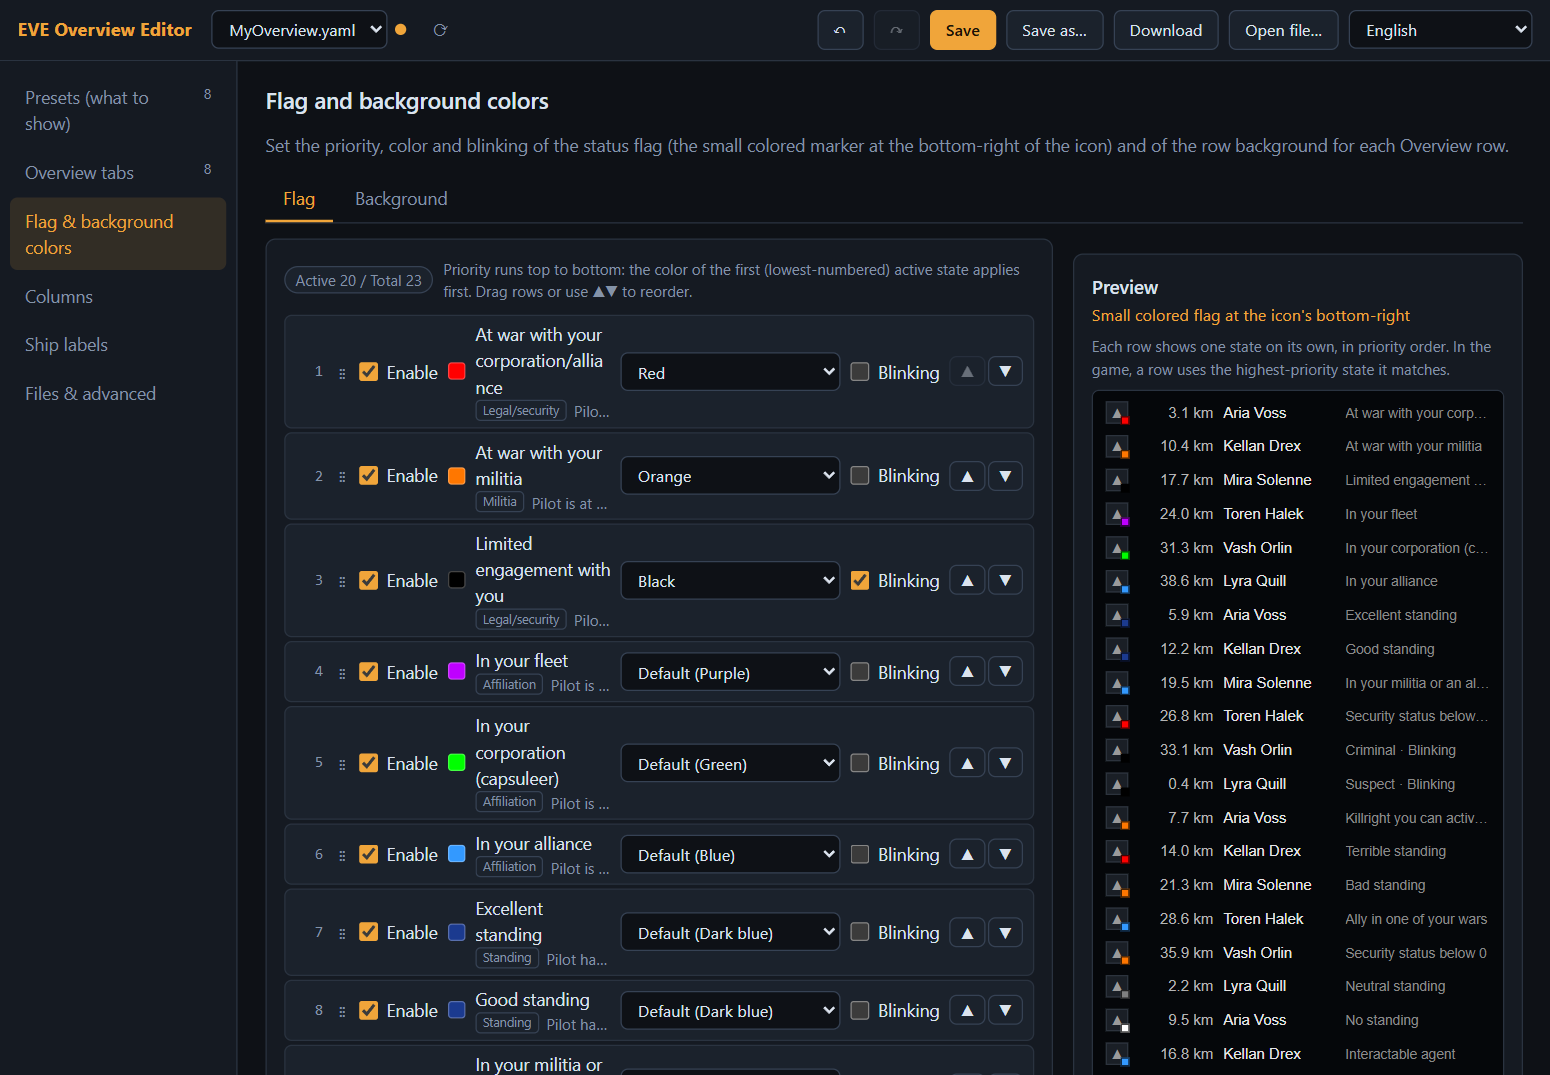
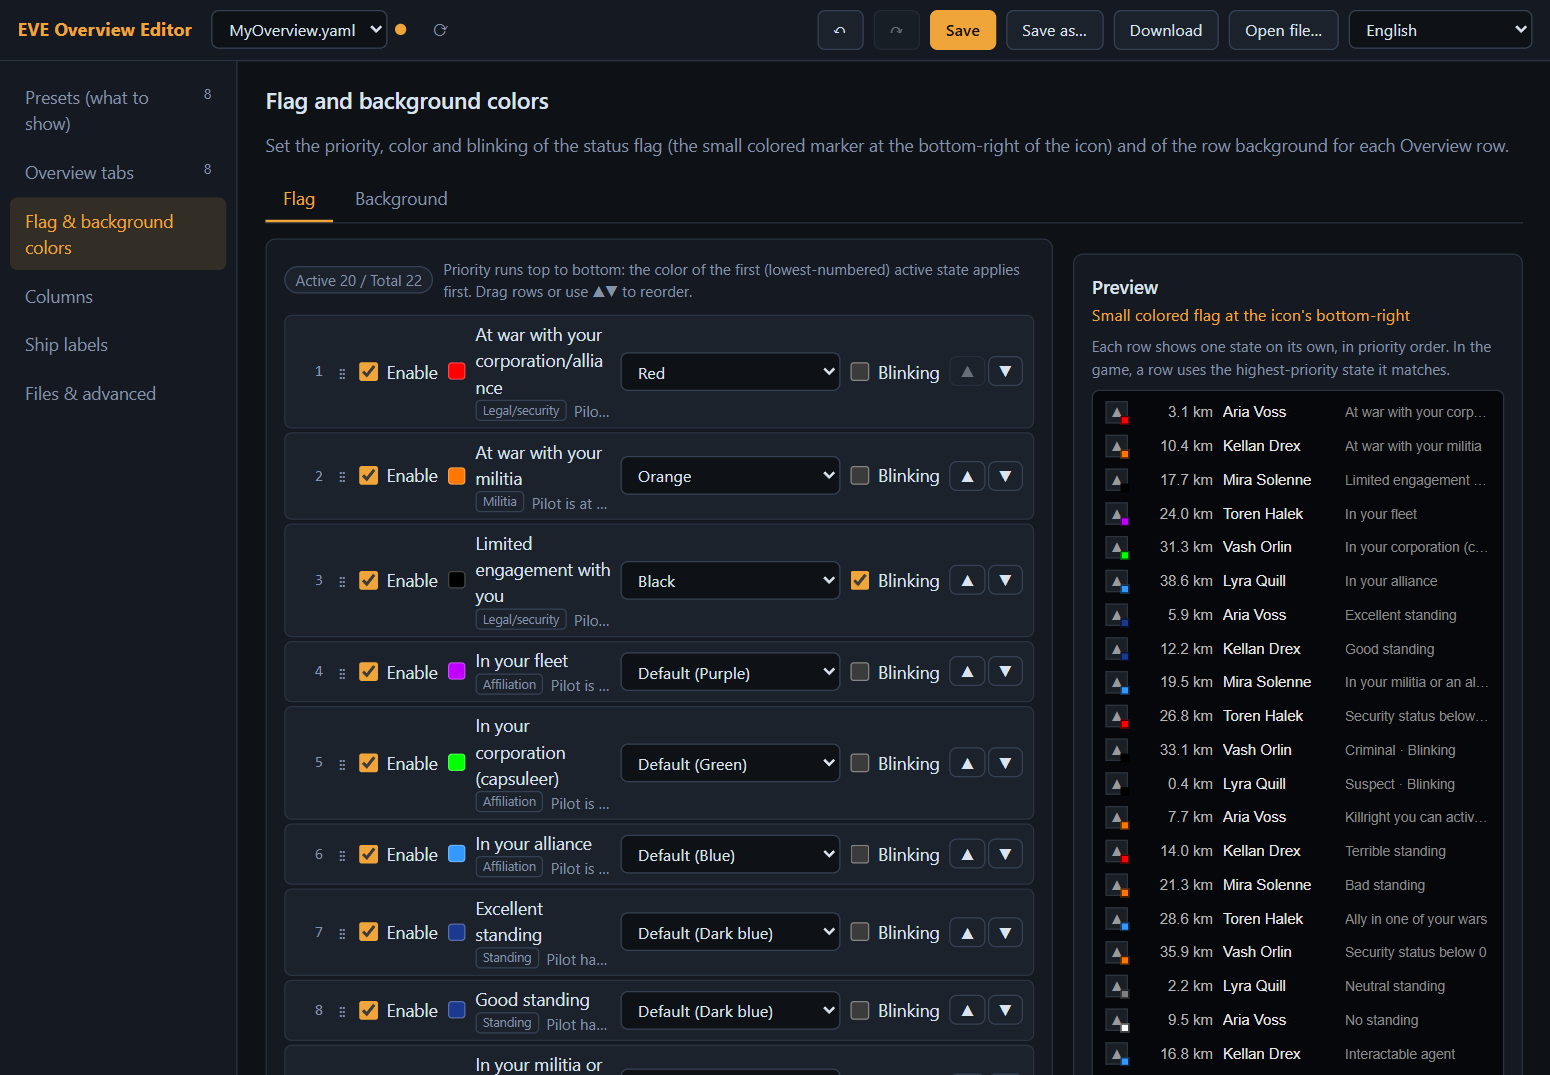
Hide the bounty state (ID 20) unless a file or preset uses it
State 20 was listed as "Reserved (20)". The client calls it "Pilot has bounty
on them" (flagIsWanted), and its own settings panels skip it only when the
server config hide_player_bounties is on. The editor now treats it as a hidden
state:

- not offered in the state filters or the flag/background lists by default
- still listed (with the game's name in all five languages) when a preset
  filters it, or when it is active in the flag/background settings
- the order arrays are left as they are, so saved files do not change; moves
  from the visible list are mapped to array positions (also with duplicate IDs)
- an active hidden state that is missing from the order array is still listed
- README notes (EN/KO) and the appearance screenshots updated

Changed region(s): [[0.7432, 0.3684, 0.8361, 0.9823], [0.8671, 0.3684, 0.96, 0.9823]]

diff --git a/public/js/panels/appearance.js b/public/js/panels/appearance.js
@@ -1,7 +1,7 @@
 // 깃발 · 배경 색상 패널: 상태별 우선순위 / 활성 / 색 / 깜빡임.
 import { store } from '../store.js';
 import { h, makeSortable, moveItem, gripHandle } from '../ui.js';
-import { STATES, APPEARANCE_STATE_IDS, stateName, stateNameEn, kindName, COLOR_NAMES, colorLabel, colorCss } from '../data.js';
+import { STATES, APPEARANCE_STATE_IDS, HIDDEN_STATE_IDS, isHiddenState, stateName, stateNameEn, kindName, COLOR_NAMES, colorLabel, colorCss } from '../data.js';
 import { t } from '../i18n.js';
 
 const MODE_IDS = ['flag', 'background'];
@@ -16,7 +16,9 @@ const statesKey = (p) => `${p}States`;
 /** 화면에 보일 전체 상태 ID (순서 배열 + 아직 순서에 없는 알려진 상태) */
 function rowIds(p) {
   const order = store.model[orderKey(p)];
-  return [...order, ...APPEARANCE_STATE_IDS.filter((id) => !order.includes(id))];
+  // 게임이 숨기는 상태라도 이미 켜져 있으면, 순서 배열에 없더라도 목록에 올린다
+  const extra = [...APPEARANCE_STATE_IDS, ...HIDDEN_STATE_IDS.filter((id) => isActive(p, id))];
+  return [...order, ...extra.filter((id) => !order.includes(id))];
 }
 /** 순서 배열에 없던 상태를 화면에 보이는 순서 그대로 편입 */
 function normalizeOrder(p) {
@@ -25,6 +27,21 @@ function normalizeOrder(p) {
   if (full.length !== order.length) order.splice(0, order.length, ...full);
 }
 const isActive = (p, id) => store.model[statesKey(p)].includes(id);
+// 게임이 숨기는 상태(현상금 등)는 이미 켜져 있을 때만 목록에 보인다. 이 화면을 그릴 때 켜져 있던 것은
+// 껐다가 다시 켤 수 있게 계속 보여 준다. 순서 배열에는 그대로 남아 있으므로 파일 내용은 바뀌지 않는다.
+let pinnedHidden = new Set();
+const pinHidden = (p) => { pinnedHidden = new Set(HIDDEN_STATE_IDS.filter((id) => isActive(p, id))); };
+/** 목록과 미리보기에 실제로 보이는 상태 ID (순서 배열 중 숨김 상태를 뺀 것) */
+const shownIds = (p) => rowIds(p).filter((id) => !isHiddenState(id) || pinnedHidden.has(id));
+/** 화면 위치(보이는 목록 기준)를 순서 배열의 위치로 옮겨서 이동한다. 사이에 숨겨진 항목이 있어도 상대 순서가 유지된다. */
+function moveShown(p, from, to) {
+  normalizeOrder(p);
+  const order = store.model[orderKey(p)];
+  // 보이는 항목들의 순서 배열 내 위치 (같은 ID 가 두 번 들어 있는 파일도 위치로 구분한다)
+  const pos = [];
+  order.forEach((id, k) => { if (!isHiddenState(id) || pinnedHidden.has(id)) pos.push(k); });
+  if (pos[from] !== undefined && pos[to] !== undefined) moveItem(order, pos[from], pos[to]);
+}
 const colorName = (p, id) => store.model.stateColors[`${p}_${id}`] ?? STATES[id]?.color ?? null;
 const isBlink = (p, id) => store.model.stateBlinks[`${p}_${id}`] === true;
 const cssOf = (name) => (name ? colorCss(name) : null);
@@ -55,12 +72,13 @@ export default async function render(root) {
 
   function drawBody() {
     const p = mode;
+    pinHidden(p);
     const list = h('div', { class: 'ap-list', role: 'list', 'aria-label': t('appearance.listAria', { mode: modeLabel(p) }) });
     const preview = h('div', { class: 'preview ap-preview', 'aria-label': t('appearance.previewAria', { mode: modeLabel(p) }) });
     const counter = h('span', { class: 'chip' });
 
     const refreshPreview = () => {
-      const all = rowIds(p);
+      const all = shownIds(p);
       // 좌측 목록의 모든 상태를 우선순위 순서 그대로 한 줄씩 보여준다 (비활성은 흐리게)
       const rows = all.map((id, i) => previewRow(p, id, `${(i * 7 + 3) % 40}.${(i * 3 + 1) % 10} km`, SAMPLE_NAMES[i % SAMPLE_NAMES.length]));
       rows.push(previewRow(p, null, '84.1 km', t('appearance.sampleNone')));
@@ -80,7 +98,7 @@ export default async function render(root) {
 
     const ctx = { refreshPreview, highlight, drawList: null };
     const drawList = (focus) => {
-      const ids = rowIds(p);
+      const ids = shownIds(p);
       list.replaceChildren(...ids.map((id, i) => stateRow(p, id, i, ids.length, ctx)));
       if (focus) {
         const row = list.querySelector(`[data-id="${focus.id}"]`);
@@ -92,8 +110,7 @@ export default async function render(root) {
     ctx.drawList = drawList;
 
     makeSortable(list, (from, to) => {
-      normalizeOrder(p);
-      moveItem(store.model[orderKey(p)], from, to);
+      moveShown(p, from, to);
       store.commit(`${p}-order`);
       drawList();
     });
@@ -176,8 +193,7 @@ function stateRow(p, id, i, total, ctx) {
   });
 
   const move = (dir) => {
-    normalizeOrder(p);
-    moveItem(m[orderKey(p)], i, i + dir);
+    moveShown(p, i, i + dir);
     store.commit(`${p}-order`);
     ctx.drawList({ id, act: dir < 0 ? 'up' : 'down' });
   };

diff --git a/public/js/data.js b/public/js/data.js
@@ -4,6 +4,8 @@ import { t, tOrNull, nameOf } from './i18n.js';
 
 // kind: legal(법적/보안) | affiliation(소속) | standing(우호도) | militia(밀리샤) | misc
 // filterOnly: 프리셋 필터(숨김/항상표시)에서만 쓰이고 깃발/배경에는 못 쓰는 상태. en 은 게임의 영어 원문.
+// hidden: 현상금(20)처럼 게임이 서버 설정(hide_player_bounties)에 따라 설정 창에서 숨기는 상태. 목록에는 올리지 않고,
+//         파일이나 프리셋이 이미 쓰고 있을 때만 보인다 (쓰는 것을 놓치지 않도록).
 export const STATES = {
   9:  { en: 'Pilot has a security status below -5', kind: 'legal', color: 'red' },
   10: { en: 'Pilot has a security status below 0', kind: 'legal', color: 'orange' },
@@ -16,7 +18,7 @@ export const STATES = {
   17: { en: 'Pilot has Neutral Standing', kind: 'standing', color: 'grey' },
   18: { en: 'Pilot has Bad Standing', kind: 'standing', color: 'orange' },
   19: { en: 'Pilot has Terrible Standing', kind: 'standing', color: 'red' },
-  20: { en: 'Reserved (20)', kind: 'misc', color: 'grey' },
+  20: { en: 'Pilot has bounty on them', kind: 'legal', color: 'grey', hidden: true },
   21: { en: 'Pilot (agent) is interactable', kind: 'misc', color: 'white' },
   36: { en: 'Wreck is already viewed', kind: 'misc', color: 'grey', filterOnly: true },
   37: { en: 'Wreck is empty', kind: 'misc', color: 'grey', filterOnly: true },
@@ -33,7 +35,9 @@ export const STATES = {
 };
 export const STATE_KIND_IDS = ['legal', 'affiliation', 'standing', 'militia', 'misc'];
 export const ALL_STATE_IDS = Object.keys(STATES).map(Number).sort((a, b) => a - b);
-export const APPEARANCE_STATE_IDS = ALL_STATE_IDS.filter((id) => !STATES[id].filterOnly);
+export const APPEARANCE_STATE_IDS = ALL_STATE_IDS.filter((id) => !STATES[id].filterOnly && !STATES[id].hidden);
+export const HIDDEN_STATE_IDS = ALL_STATE_IDS.filter((id) => STATES[id].hidden);
+export const isHiddenState = (id) => !!STATES[id]?.hidden;
 
 /** 현재 언어의 상태 이름 (모르는 ID 는 "알 수 없는 상태 #id") */
 export const stateName = (id) => (STATES[id] ? t(`data.state.${id}`) : t('data.unknownState', { id }));

diff --git a/public/js/locales/data.js b/public/js/locales/data.js
@@ -15,7 +15,7 @@ defineMessages('data', {
     'state.17': 'Neutral standing',
     'state.18': 'Bad standing',
     'state.19': 'Terrible standing',
-    'state.20': 'Reserved (20)',
+    'state.20': 'Pilot has a bounty on them',
     'state.21': 'Interactable agent',
     'state.36': 'Wreck already viewed',
     'state.37': 'Empty wreck',
@@ -84,7 +84,7 @@ defineMessages('data', {
     'state.17': '우호도 중립',
     'state.18': '우호도 나쁨',
     'state.19': '우호도 매우 나쁨',
-    'state.20': '예약됨 (20)',
+    'state.20': '현상금이 걸린 파일럿',
     'state.21': '상호작용 가능한 에이전트',
     'state.36': '이미 열어본 잔해',
     'state.37': '빈 잔해',
@@ -153,7 +153,7 @@ defineMessages('data', {
     'state.17': 'スタンディング:中立',
     'state.18': 'スタンディング:悪い',
     'state.19': 'スタンディング:非常に悪い',
-    'state.20': '予約済み (20)',
+    'state.20': '懸賞金がかかっているパイロット',
     'state.21': '対話可能なエージェント',
     'state.36': '確認済みの残骸',
     'state.37': '空の残骸',
@@ -222,7 +222,7 @@ defineMessages('data', {
     'state.17': 'Отношения: нейтральные',
     'state.18': 'Отношения: плохие',
     'state.19': 'Отношения: ужасные',
-    'state.20': 'Зарезервировано (20)',
+    'state.20': 'Назначена награда за голову пилота',
     'state.21': 'Агент, доступный для взаимодействия',
     'state.36': 'Обломки уже просмотрены',
     'state.37': 'Пустые обломки',
@@ -291,7 +291,7 @@ defineMessages('data', {
     'state.17': '声望:中立',
     'state.18': '声望:较差',
     'state.19': '声望:极差',
-    'state.20': '保留 (20)',
+    'state.20': '被悬赏的飞行员',
     'state.21': '可交互的代理人',
     'state.36': '已查看的残骸',
     'state.37': '空残骸',

diff --git a/public/js/panels/presets.js b/public/js/panels/presets.js
@@ -531,8 +531,10 @@ function statesTab(p, { rebuild }) {
   }
 
   const wrap = h('div', { class: 'pr-states' });
+  // 게임이 숨기는 상태(현상금 등)는 이 프리셋이 이미 쓰고 있을 때만 나열한다 (이 화면을 그릴 때 기준으로 고정)
+  const inUse = new Set([...p.filteredStates, ...p.alwaysShownStates]);
   for (const kind of STATE_KIND_IDS) {
-    const ids = ALL_STATE_IDS.filter((id) => STATES[id].kind === kind);
+    const ids = ALL_STATE_IDS.filter((id) => STATES[id].kind === kind && (!STATES[id].hidden || inUse.has(id)));
     if (!ids.length) continue;
     wrap.append(h('section', { class: 'pr-kind' }, h('h4', {}, kindName(kind)), ids.map(rowFor)));
   }

diff --git a/README.ko.md b/README.ko.md
@@ -159,6 +159,8 @@ zip(방법 B)에는 PATH 에 `node` 가 없으므로, 압축을 푼 폴더에서
 
 한 상태는 둘 중 한쪽에만 넣을 수 있고, 충돌하면 편집기가 경고합니다. **다른 프리셋에서 복사**와 **모두 기본으로**가 있어 편합니다.
 
+"현상금이 걸린 파일럿" 상태는 게임이 서버 설정에 따라 숨길 수 있어서 이 목록과 깃발·배경 목록에서 빼 두었습니다. 프리셋이나 깃발·배경 설정에서 이미 쓰고 있다면 평소처럼 나열되므로 설정이 사라지지는 않습니다.
+
 ![상태 필터](docs/img/ko/presets-states.png)
 
 ### 오버뷰 탭

diff --git a/README.md b/README.md
@@ -157,6 +157,8 @@ A **preset** is a saved list of *what an overview tab displays*: the object type
 
 A state can only be in one of the two lists; the editor warns you about conflicts. **Copy from another preset** and **Reset all to default** save time.
 
+The state "Pilot has bounty on them" is left out of this list and of the flag and background lists, because the game can hide it depending on a server setting. If a preset (or the flag and background settings) already uses it, it is listed as usual, so nothing in your settings is lost.
+
 ![State filters](docs/img/en/presets-states.png)
 
 ### Overview tabs
